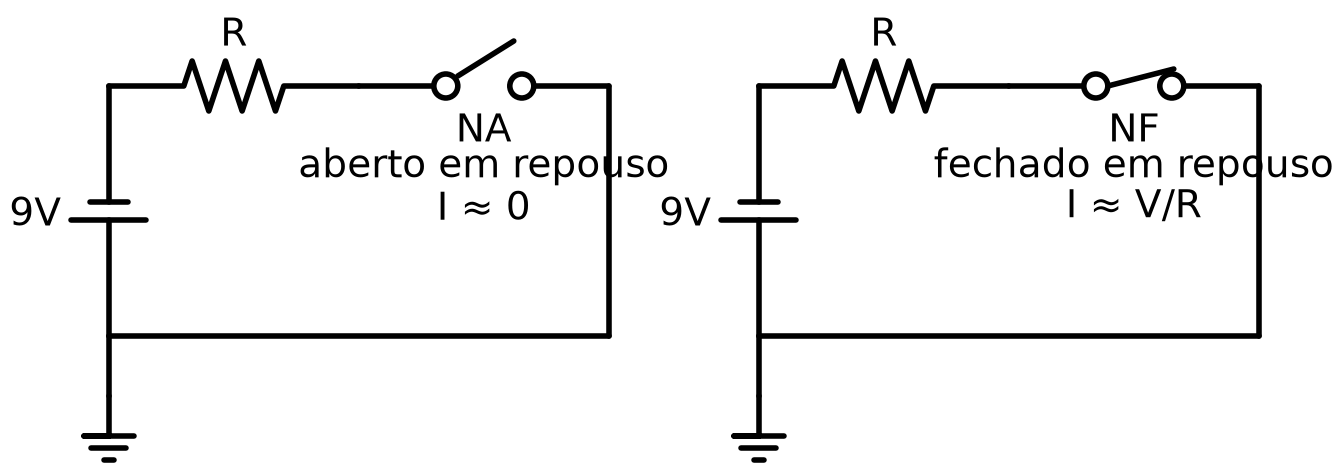
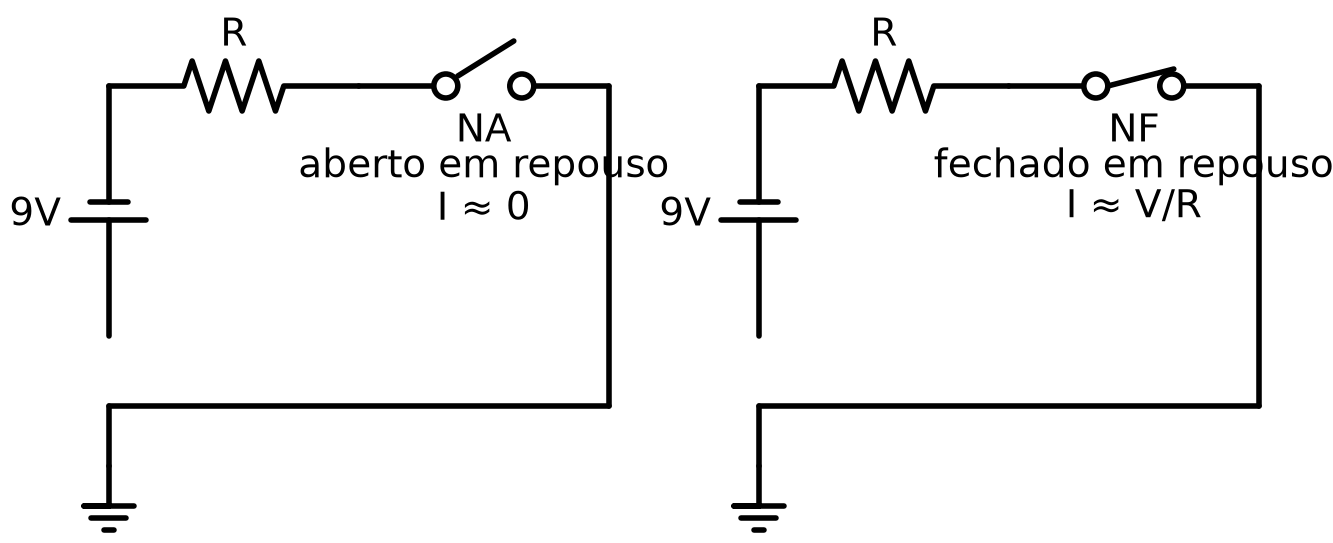
fix(slides): dividir slide NA/NF sobrecarregado em 2 e corrigir colisao rotulo/fio (Entrada #9)
- Corrige script botao_na_nf.py: aumenta comprimento do fio vertical de retorno (0.6 -> 3.2) em ambos os circuitos NA e NF para evitar sobreposição com rótulos de 3 linhas
- Regenera diagrama SVG/PNG sem colisão label/wire
- Divide slide 9 em dois: mantém bullets no primeiro slide, move comparação + diagrama para novo slide com título "comparando os dois circuitos"
- Deck agora possui 34 slides (era 33)

Claude-Session: https://claude.ai/code/session_01RkkRkeJJLgrRawW8cqUqk3

diff --git a/scripts/diagramas/botao_na_nf.py b/scripts/diagramas/botao_na_nf.py
@@ -24,7 +24,7 @@ with schemdraw.Drawing(show=False) as d:
     src_na = d.add(elm.BatteryCell().at((0, 0)).up().label("9V", loc="top"))
     d.add(elm.Resistor().right().label("R"))
     d.add(elm.Switch().right().label("NA\naberto em repouso\nI ≈ 0", loc="bottom"))
-    d.add(elm.Line().down())
+    d.add(elm.Line().down().length(3.2))
     d.add(elm.Line().left().tox(src_na.start))
     d.add(elm.Line().down().length(0.6))
     d.add(elm.Ground())
@@ -33,7 +33,7 @@ with schemdraw.Drawing(show=False) as d:
     src_nf = d.add(elm.BatteryCell().at((6.5, 0)).up().label("9V", loc="top"))
     d.add(elm.Resistor().right().label("R"))
     d.add(elm.Switch(nc=True).right().label("NF\nfechado em repouso\nI ≈ V/R", loc="bottom"))
-    d.add(elm.Line().down())
+    d.add(elm.Line().down().length(3.2))
     d.add(elm.Line().left().tox(src_nf.start))
     d.add(elm.Line().down().length(0.6))
     d.add(elm.Ground())

diff --git a/slides/gpio_entrada_botoes.md b/slides/gpio_entrada_botoes.md
@@ -118,11 +118,15 @@ Será que todo botão funciona igual?
 - **NF** (normalmente fechado / *Normally Closed*): repouso = fechado,
   conduzindo. Pressionar **abre** o circuito.
 
+---
+
+## 🔀 NA vs. NF: comparando os dois circuitos
+
 **NA e NF não são "melhor" e "pior" — são escolhas de projeto:** cada um
 define qual estado elétrico existe quando ninguém está acionando o
 dispositivo.
 
-![h:170](../images/botao_na_nf.svg)
+![h:260](../images/botao_na_nf.svg)
 
 <!--
 Diagrama 15. No NF, o estado de repouso já conduz corrente pelo resistor
